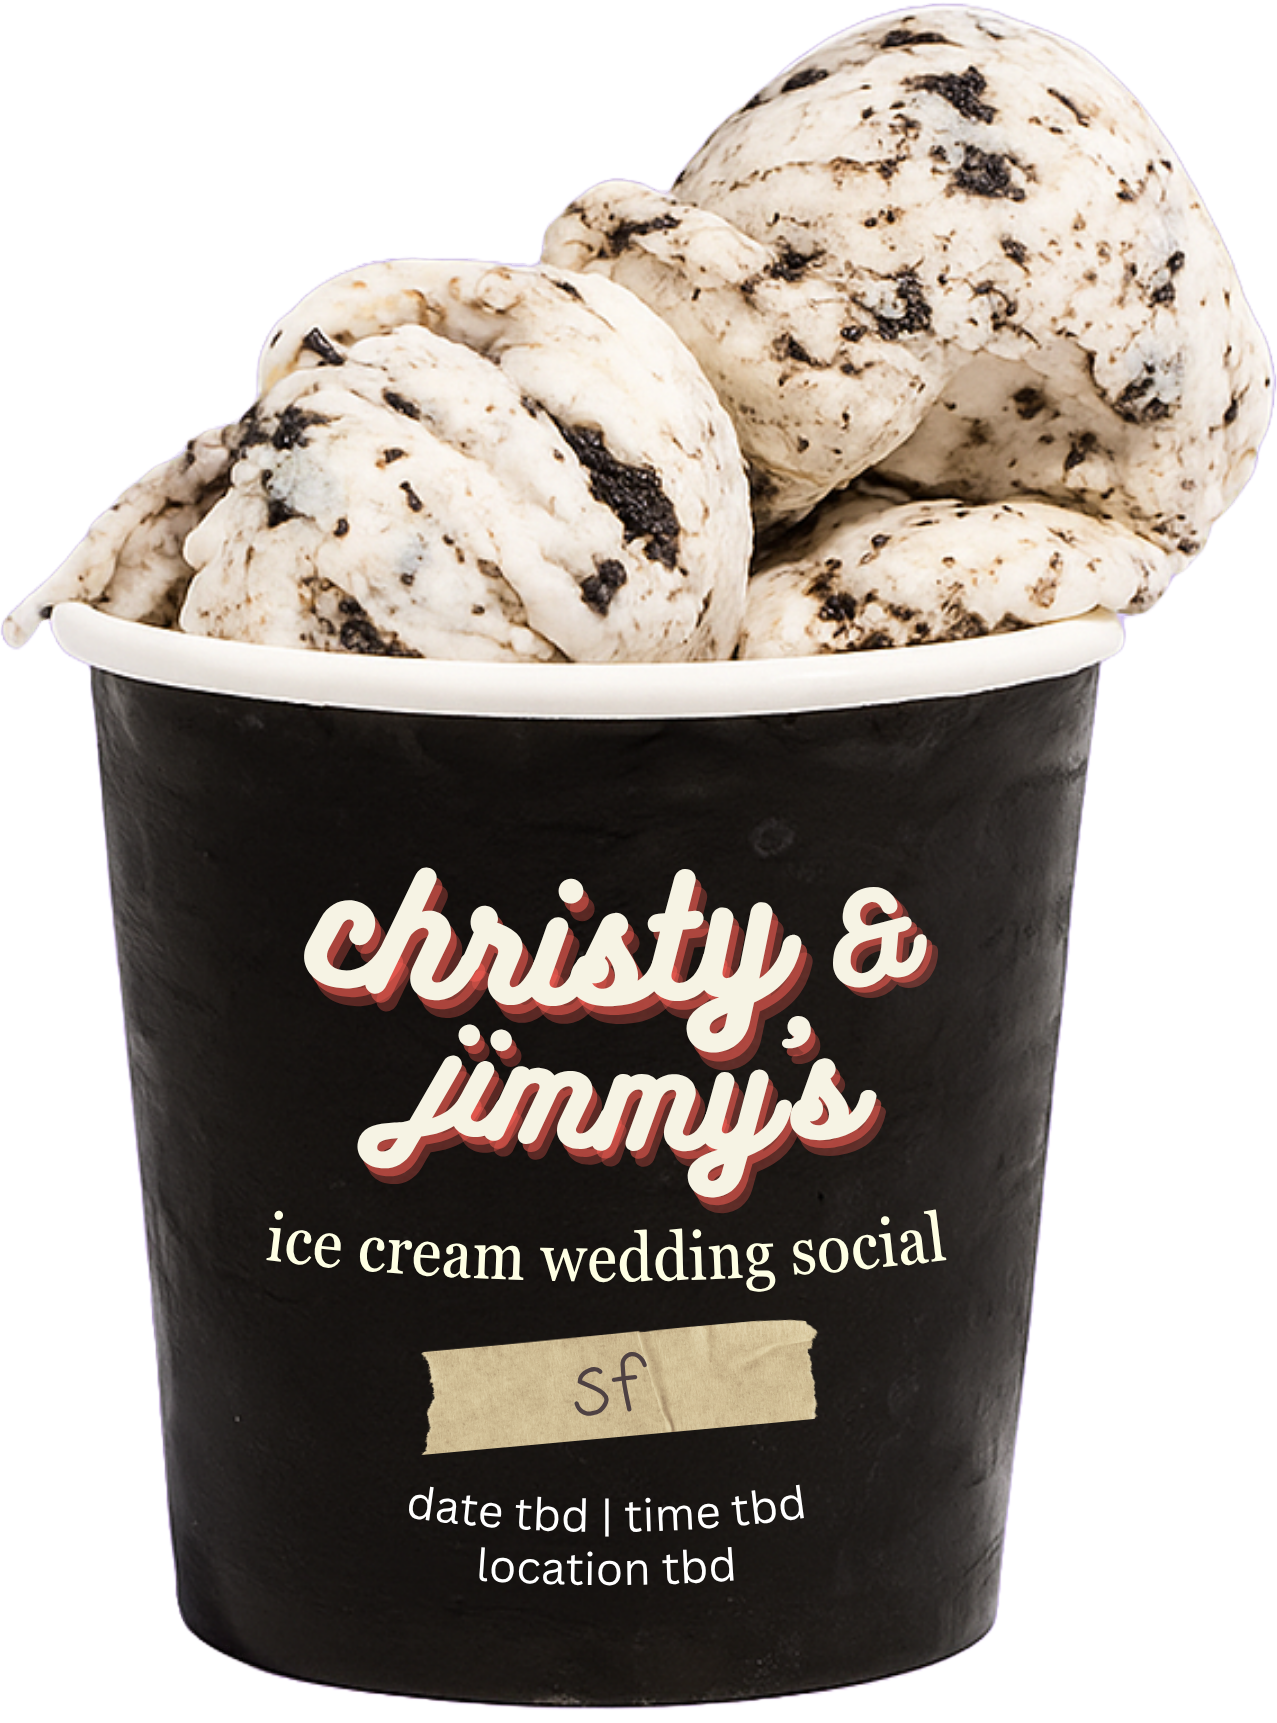
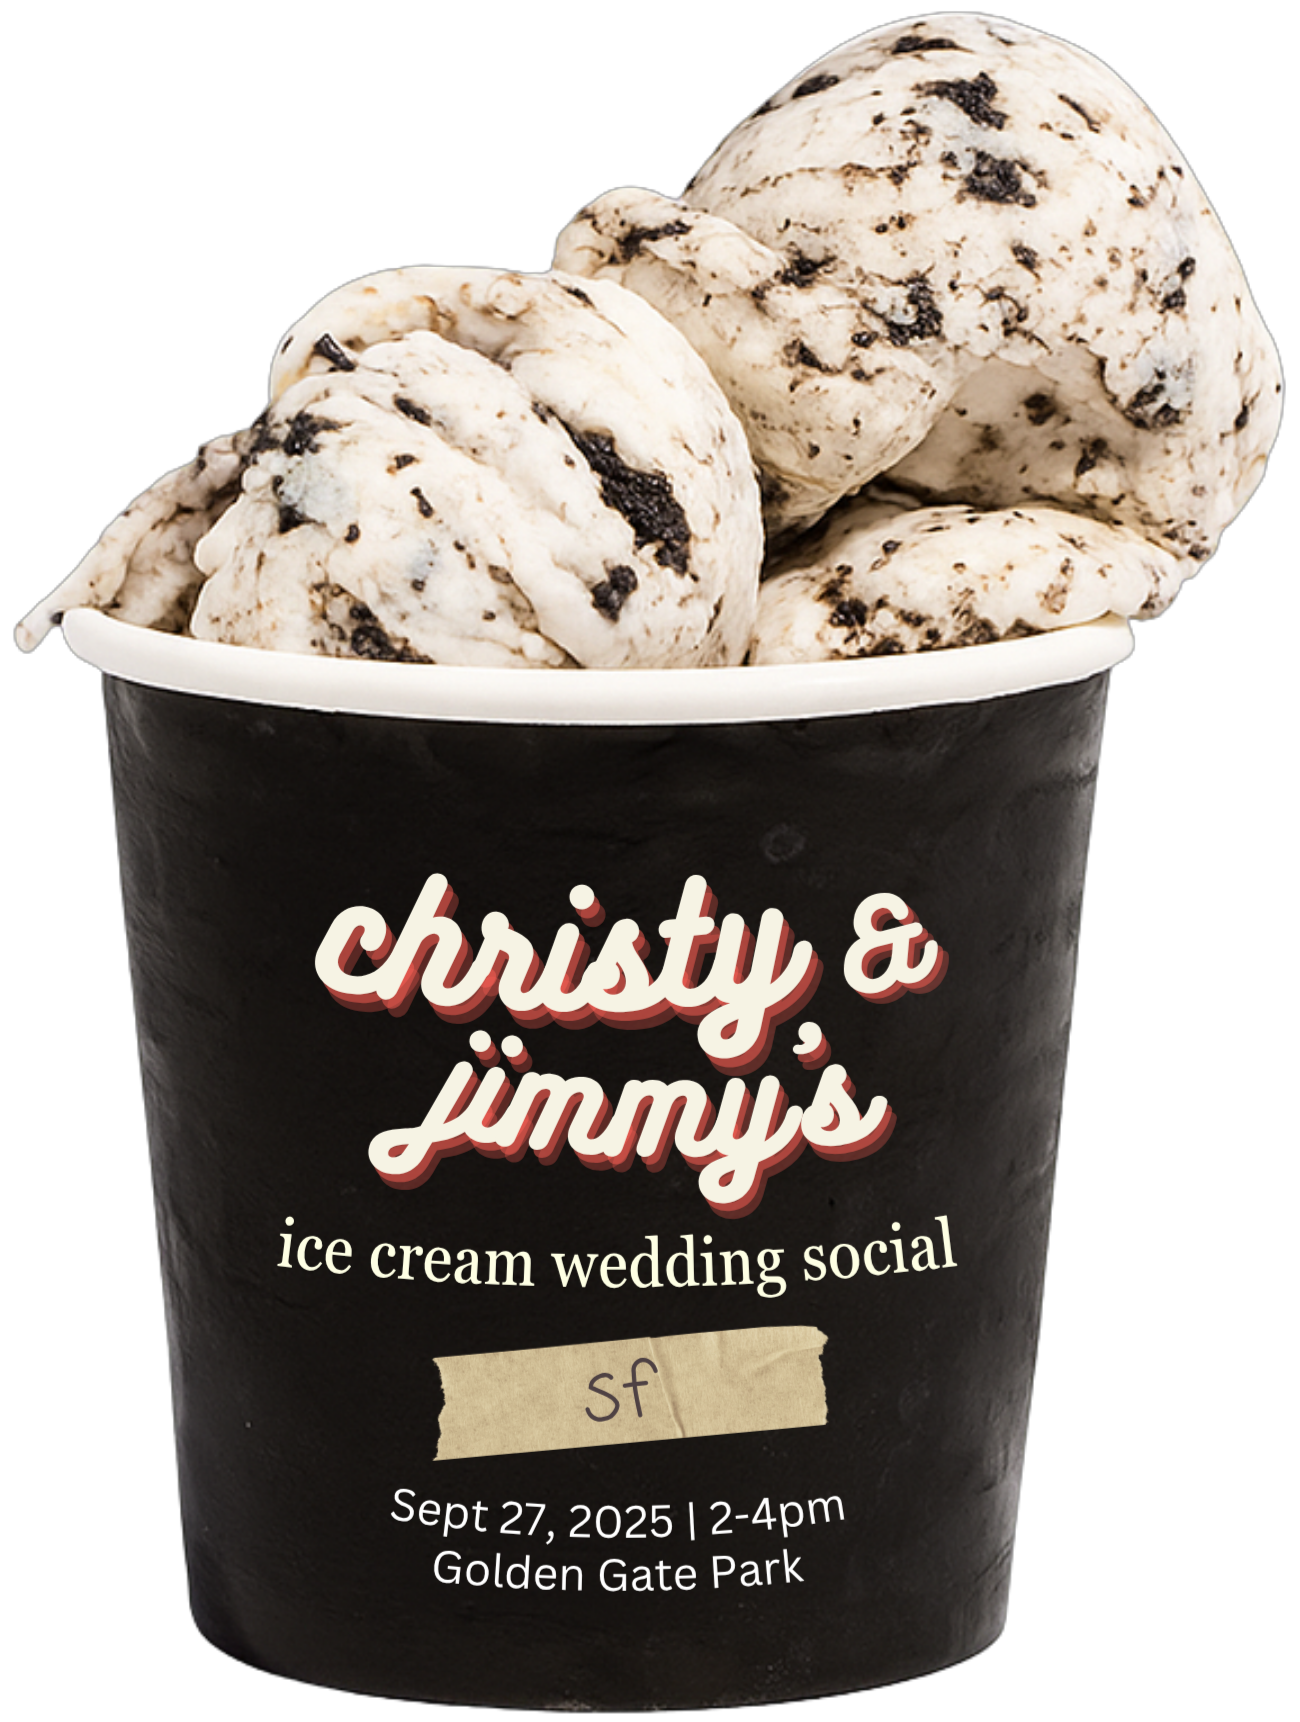
added sf updates

diff --git a/index.html b/index.html
@@ -51,9 +51,11 @@
                 <div class="tour-date">
                     <div class="location">
                         <span class="city">san francisco</span>
-                        <span class="date">tbd</span>
+                        <span class="date">sept 27, 2025</span>
                     </div>
-                    <span class="details">coming soon</span>
+                    <a href="https://partiful.com/e/h1qMT9O32sHJdwNaWSG8" class="rsvp-link" target="_blank">
+                        rsvp →
+                    </a>
                 </div>
 
                 <div class="tour-date">
